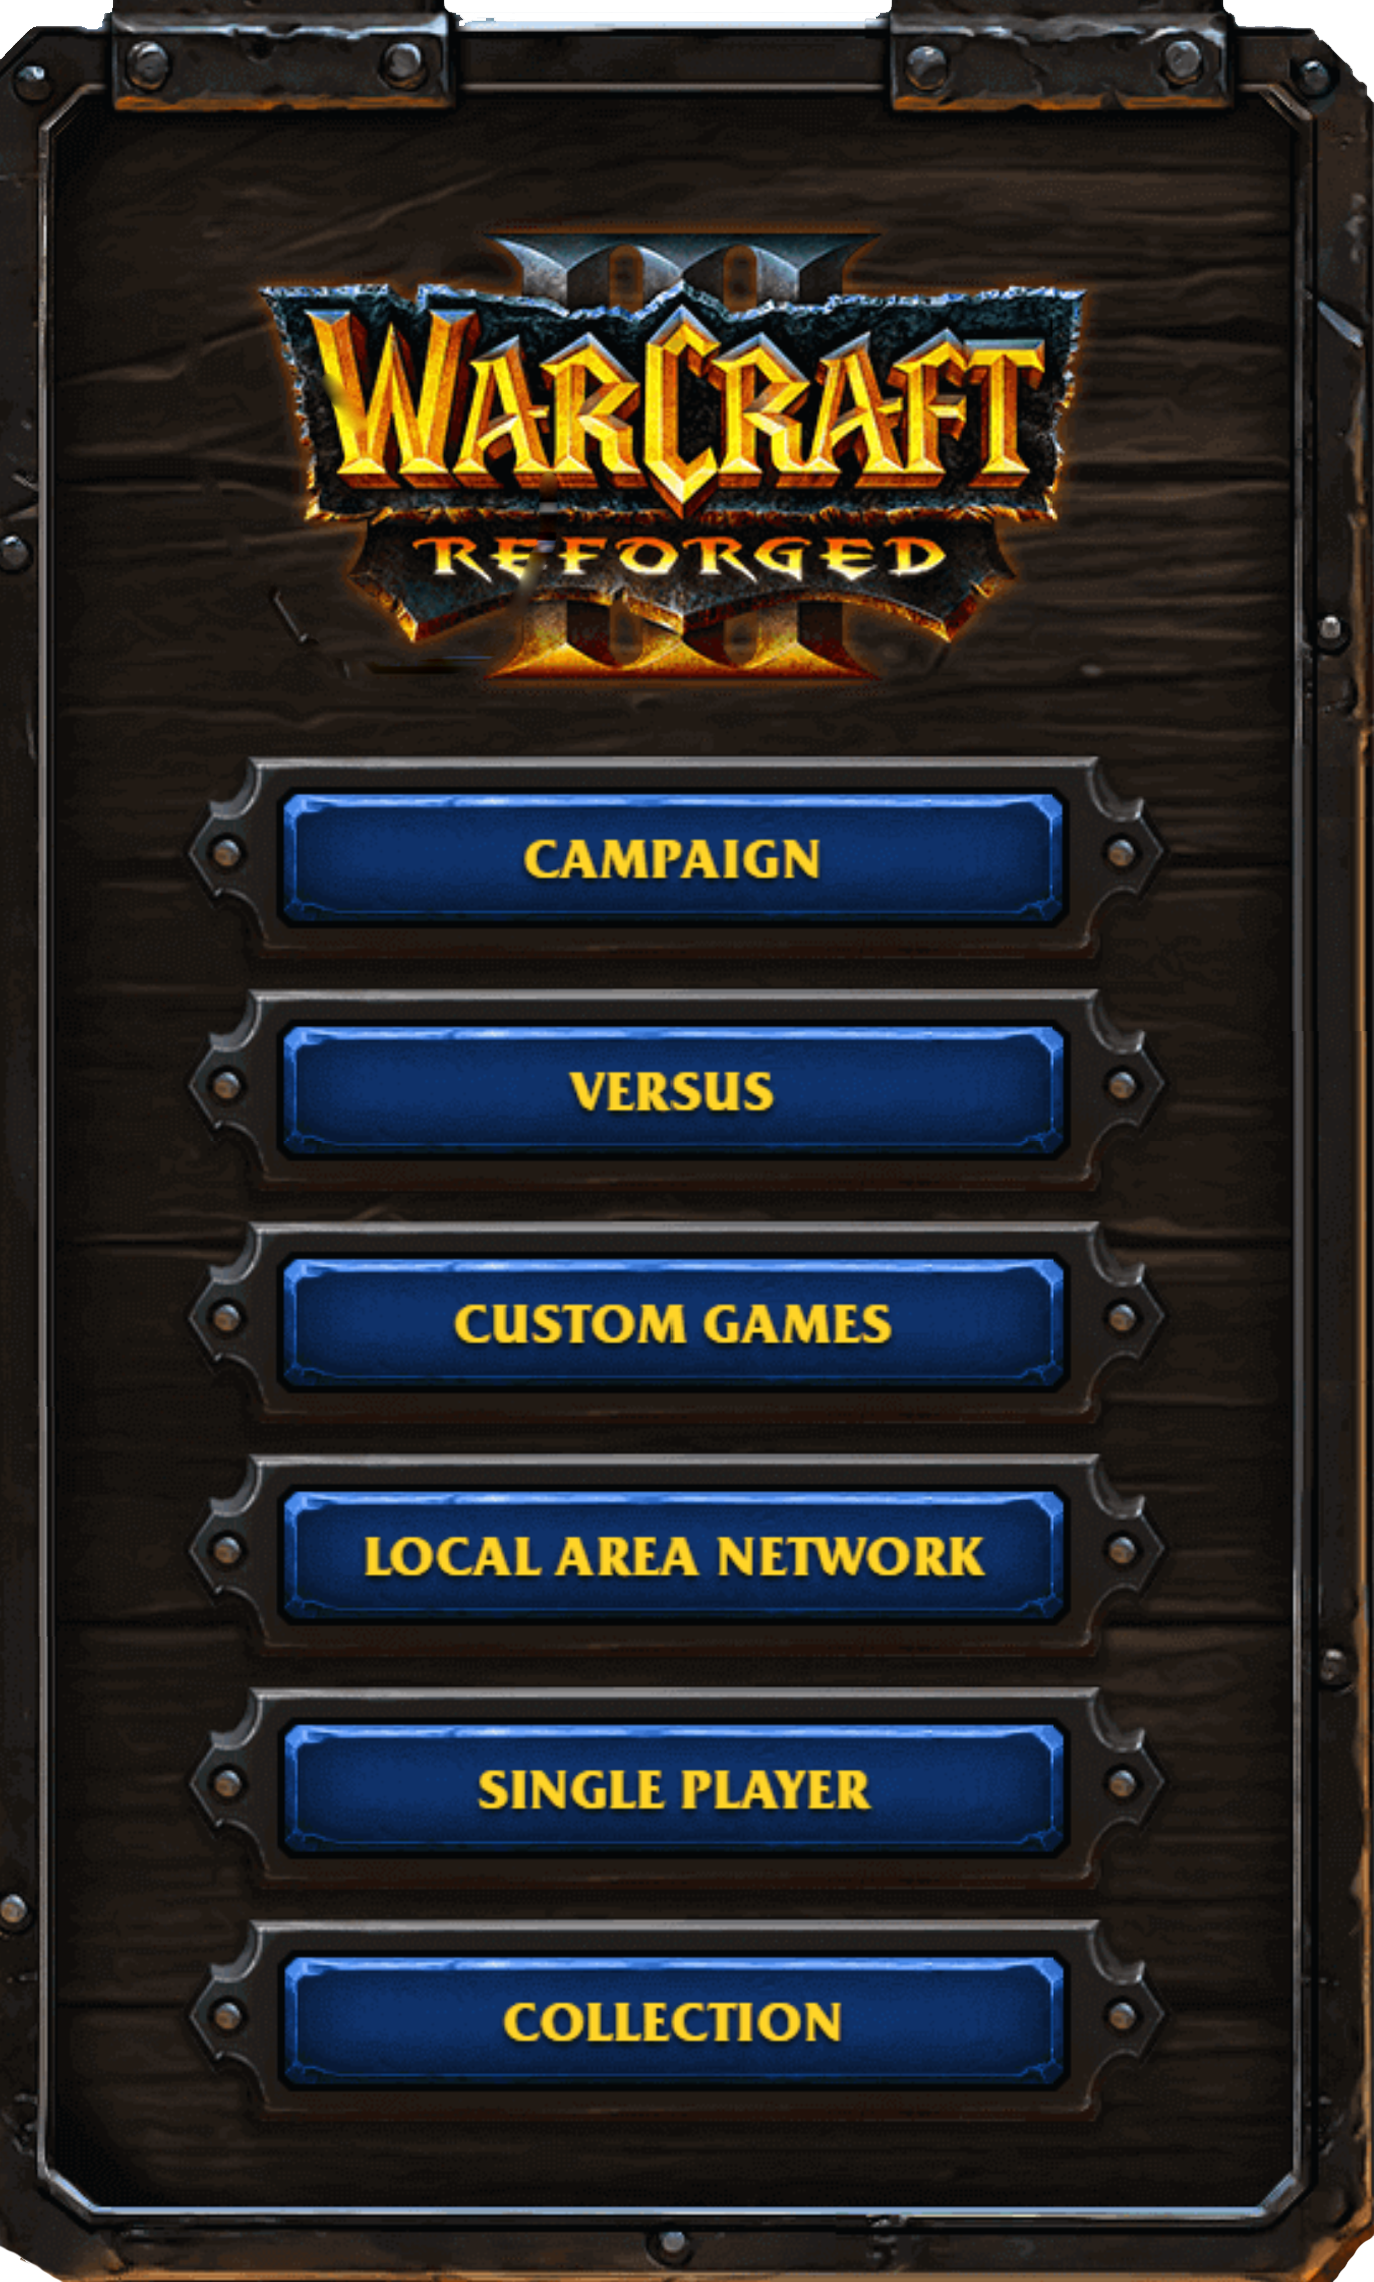
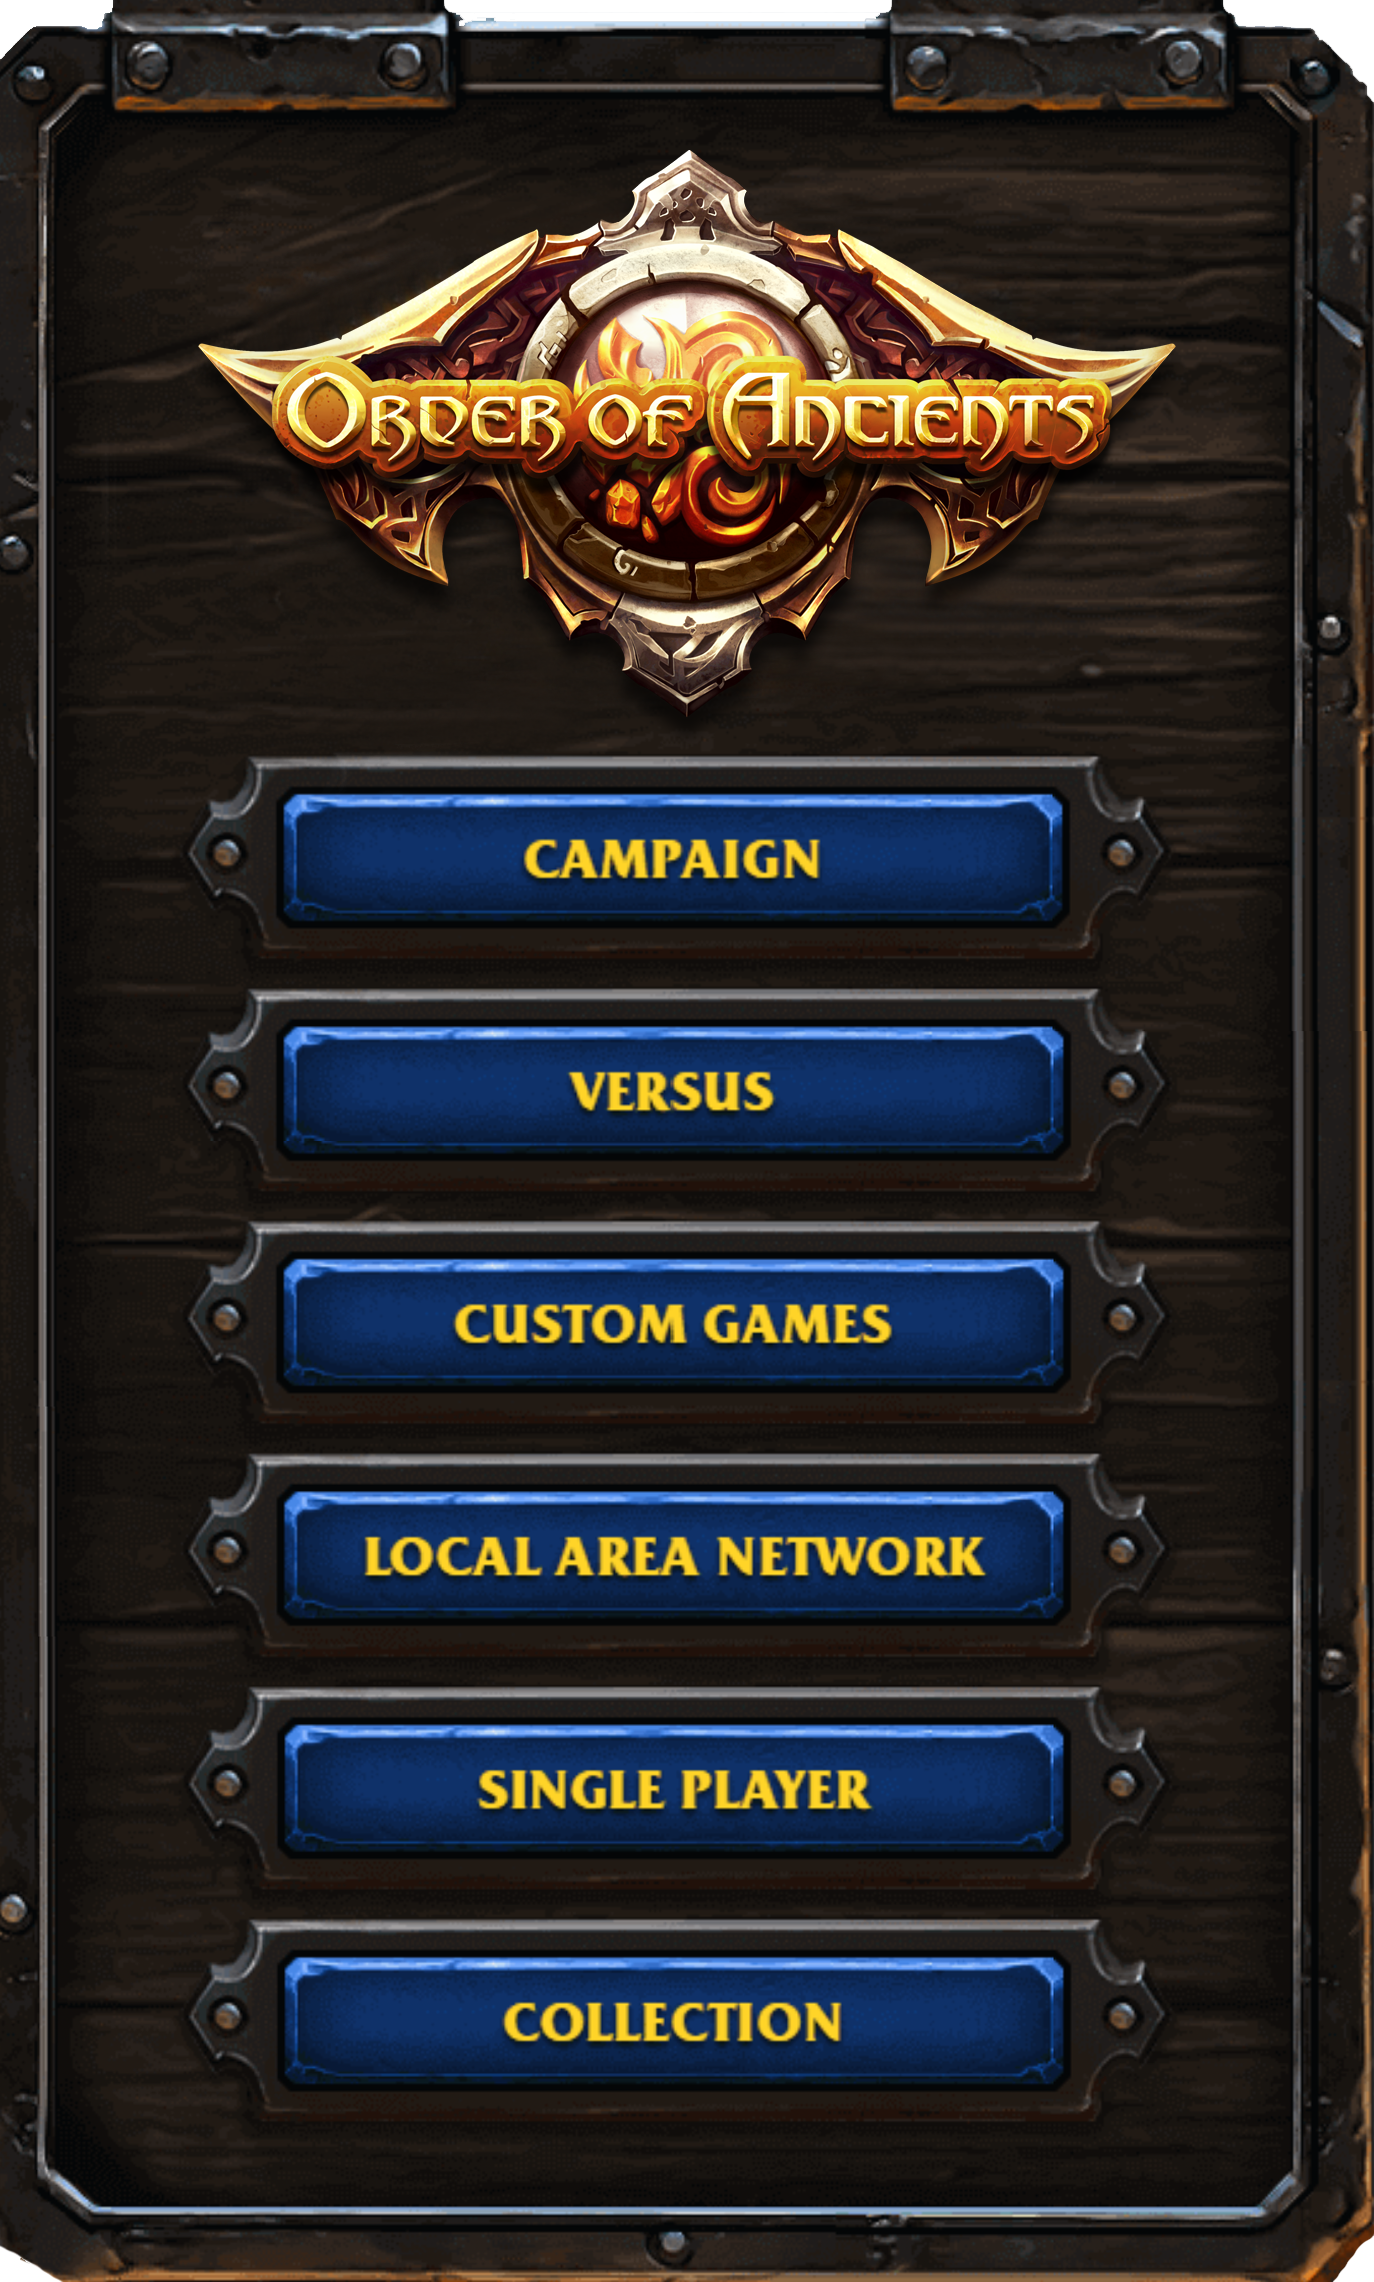
add menu drop down animation

Changed region(s): [[0.1528, 0.0622, 0.8559, 0.3111], [0.1834, 0.3111, 0.214, 0.3422]]

diff --git a/src/components/GameScene/UI/StartMenu.tsx b/src/components/GameScene/UI/StartMenu.tsx
@@ -2,23 +2,23 @@ export const StartMenu = () => {
     return (
         <div className="menu">
             <div className="button-col">
-                <button className="warButton" name="campaign">
-                    CAMPAIGN
+                <button className="warButton" name="play">
+                    PLAY
                 </button>
                 <button className="warButton" name="versus">
-                    VERSUS
+                    DIFFICULTY
                 </button>
                 <button className="warButton" name="custom">
-                    CUSTOM GAME
+                    SETTINGS
                 </button>
                 <button className="warButton" name="localarea">
-                    LOCAL AREA NETWORK
+                    TUTORIAL
                 </button>
-                <button className="warButton" name="single">
-                    SINGLE PLAYER
+                <button className="warButton" name="setting">
+                    PROVIDER
                 </button>
                 <button className="warButton" name="collection">
-                    COLLECTION
+                    CONTACT US
                 </button>
             </div>
         </div>

diff --git a/src/components/GameScene/UI/index.tsx b/src/components/GameScene/UI/index.tsx
@@ -1,9 +1,28 @@
-import styled from "styled-components";
+import { useEffect } from "react";
+import { Back, gsap } from "gsap";
 import "./index.scss";
 import { StartMenu } from "./StartMenu";
 export const UI = () => {
+    useEffect(() => {
+        gsap.to(".menu", {
+            top: "0px",
+            duration: 1,
+            // ease: Back.easeOut,
+        });
+        gsap.to(".chain", {
+            top: "-60px",
+            height: "100px",
+            duration: 1,
+        });
+        gsap.to(".chain", {
+            height: "100px",
+            duration: 1,
+            ease: Back.easeOut,
+        });
+    }, []);
     return (
         <div className="content">
+            <div className="chain" />
             <StartMenu />
         </div>
     );

diff --git a/src/components/GameScene/UI/index.scss b/src/components/GameScene/UI/index.scss
@@ -7,16 +7,24 @@
     z-index: 3;
 }
 
+.chain{
+    position: absolute;
+    width: 500px;
+    height: 50px;
+    background-image: url('../../../assets/imgs/chain.png');
+    background-size: 100% 100%;
+    top: -200px;
+}
+
 .menu{
     position: relative;
     width: 500px;
-    height: 830px;
+    height: 850px;
+    top: -1000px;
     display: flex;
     flex-direction: column;
     background-image: url('../../../assets/imgs/menu.png');
-    background-size: contain;
-    background-repeat: no-repeat;
-    background-position: center;
+    background-size: 100% 100%;
     align-items: center;
 }
 .button-col{

diff --git a/src/components/GameScene/index.tsx b/src/components/GameScene/index.tsx
@@ -33,7 +33,7 @@ export const GameScene = () => {
     }, []);
 
     useEffect(() => {
-        createGame();
+        // createGame();
 
         return () => {
             // destroy Game
@@ -42,8 +42,9 @@ export const GameScene = () => {
 
     return (
         <Wrapper>
-            {loading ? <Loader /> : <UI></UI>}
-            <div ref={canvasDivRef}></div>
+            {/* {loading ? <Loader /> : <UI/>} */}
+            <UI />
+            {/* <div ref={canvasDivRef}></div> */}
         </Wrapper>
     );
 };
